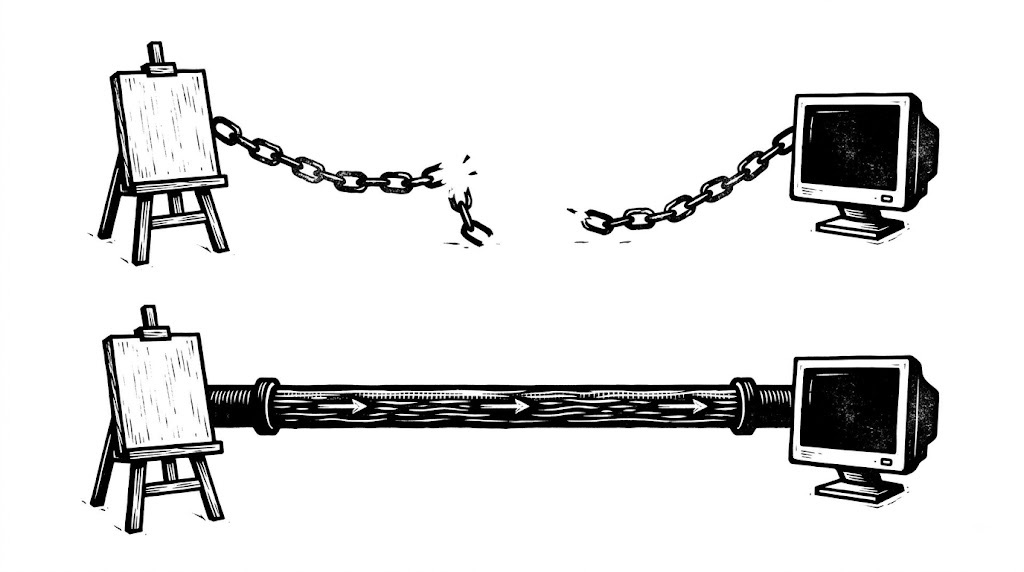
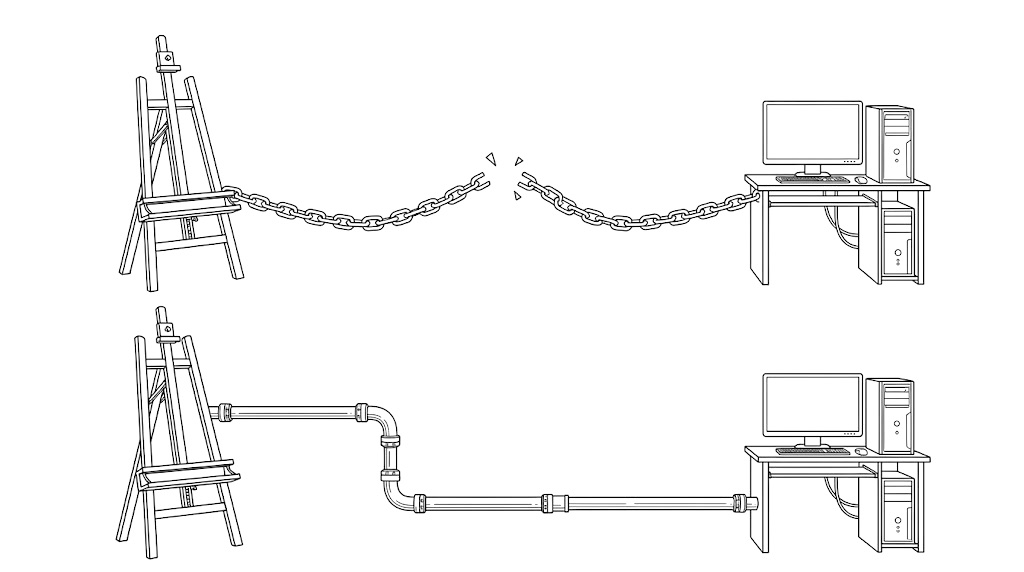
批1+2 十六張意象圖全面改為代針筆線稿風格（同檔名替換；tag-teammate/sta-nodes 標籤移位＋hlver bump）
Claude-Session: https://claude.ai/code/session_01JYoxEjGrD6CpF2TgmSnt6x

diff --git a/entries/sta-academic-note-system.html b/entries/sta-academic-note-system.html
@@ -20,7 +20,7 @@
 <meta name="apple-mobile-web-app-title" content="閱讀庫">
 <meta name="robots" content="noindex, nofollow">
 </head>
-<body data-entry="sta-academic-note-system" data-video="S_-uD3GtFno" data-hlver="2">
+<body data-entry="sta-academic-note-system" data-video="S_-uD3GtFno" data-hlver="3">
 <div class="progress"><div class="bar"></div></div>
 
 <div class="topbar caps">
@@ -183,8 +183,8 @@
       <div class="fl caps">圖解 · 一句話變成一張網</div>
       <div class="dgimg">
         <img src="../assets/img/diagram-sta-nodes.jpg" alt="左：一頁文件中有一行被標黑的句子；粗箭頭指向右：由圓形、方形、三角形三種節點連成的小網絡" loading="lazy">
-        <span class="lbl" style="left:8%;top:22%">原文裡的一句話</span>
-        <span class="lbl" style="left:58%;top:26%">拆成節點：形狀不同＝責任歸誰不同</span>
+        <span class="lbl" style="left:8%;top:4%">原文裡的一句話</span>
+        <span class="lbl" style="left:57%;top:4%">拆成節點：形狀不同＝責任歸誰不同</span>
       </div>
       <figcaption>劃重點只是把那句話塗黑；STA 是把它拆進網絡——來源、主張、你自己的想法各是一種節點，永遠分得清是誰在說話</figcaption>
     </figure>

diff --git a/entries/claude-tag-teammate.html b/entries/claude-tag-teammate.html
@@ -20,7 +20,7 @@
 <meta name="apple-mobile-web-app-title" content="閱讀庫">
 <meta name="robots" content="noindex, nofollow">
 </head>
-<body data-entry="claude-tag-teammate" data-video="EpxZEvvOTL8" data-hlver="2">
+<body data-entry="claude-tag-teammate" data-video="EpxZEvvOTL8" data-hlver="3">
 <div class="progress"><div class="bar"></div></div>
 
 <div class="topbar caps">
@@ -105,7 +105,7 @@
       <div class="fl caps">圖解 · 工具 vs 隊友</div>
       <div class="dgimg">
         <img src="../assets/img/diagram-tag-teammate.jpg" alt="左：一個人獨自在小桌前用扳手；右：圓形會議桌旁一個機器人與四位人類並肩協作" loading="lazy">
-        <span class="lbl" style="left:3%;top:22%">你自己開的工具：脈絡只留在你的視窗</span>
+        <span class="lbl" style="left:3%;top:2%">你自己開的工具：脈絡只留在你的視窗</span>
         <span class="lbl" style="left:52%;top:5%">有帳號的隊友：脈絡跟著頻道累積</span>
       </div>
       <figcaption>差別不在能力，在身分——它有自己的座位、自己的權限、自己的帳號日誌</figcaption>
